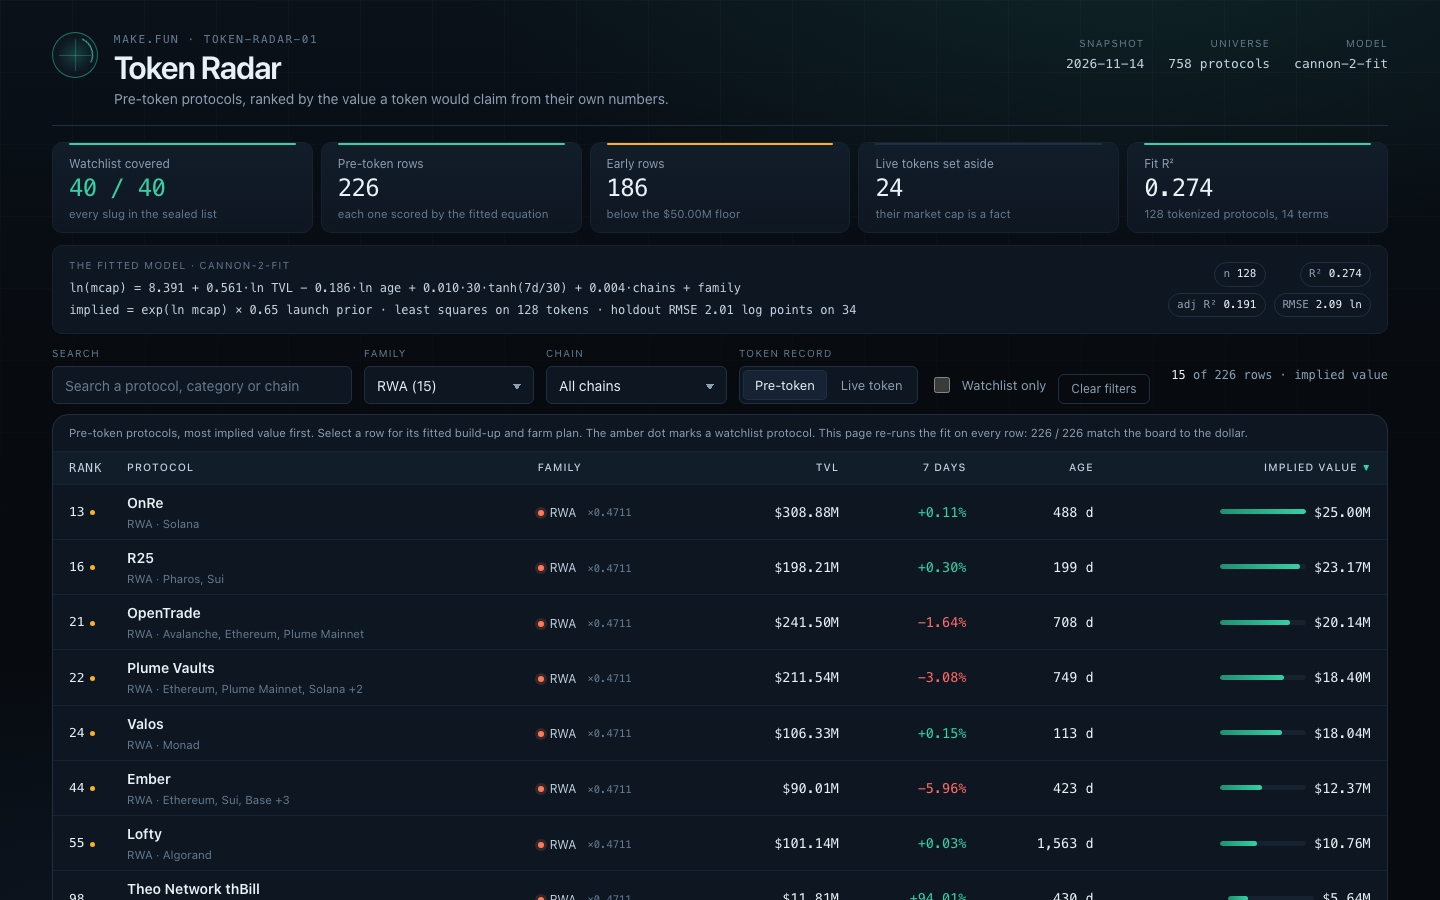
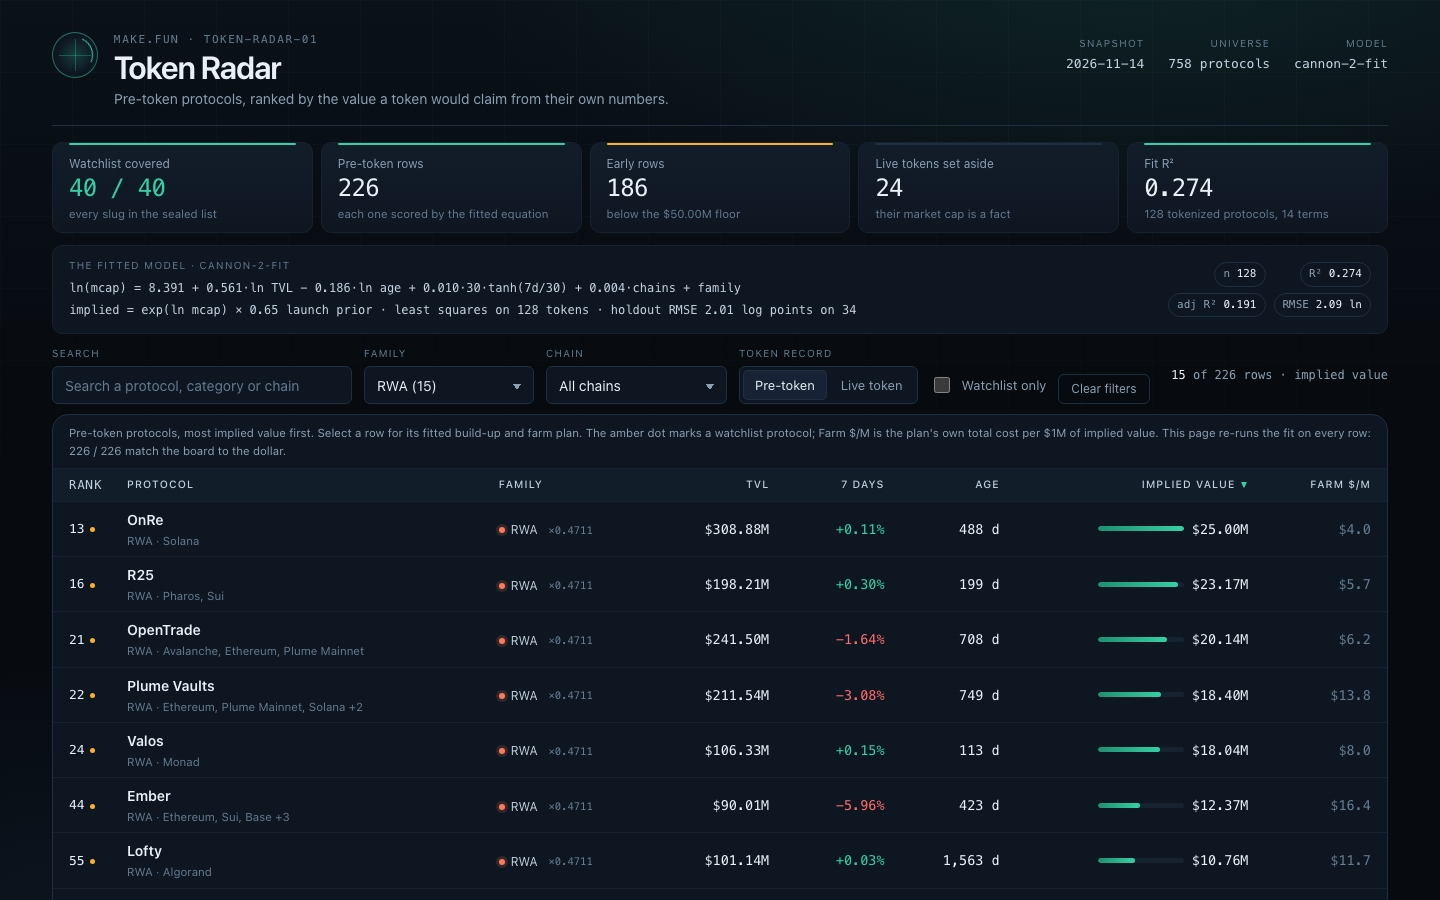
Quantify the farm plans: prerequisites, cash cost and cost per implied dollar
Every farm step now states its prerequisite, its cost and its time; each row carries the plan's
capital, gas, total, hold window and the cost per $1M of implied value, shown as a sortable
column and a summary line in the detail drawer.

diff --git a/lib/model.ts b/lib/model.ts
@@ -139,6 +139,18 @@ export interface ModelBreakdown {
   shrink: number;
 }
 
+/** What a farm plan costs to run, and what that cost is against the row's implied value. */
+export interface FarmCost {
+  capital_usd: number;
+  gas_usd: number;
+  total_usd: number;
+  hold_days: number;
+  /** Total cost divided by implied value, in basis points (1 bp = 0.01%). */
+  cost_bp_of_implied: number;
+  /** Dollars of total cost per $1,000,000 of implied value: the cross-row comparison. */
+  cost_per_million_implied_usd: number;
+}
+
 /** One row of board.json, and of the dashboard's data. */
 export interface BoardRow {
   rank: number;
@@ -158,6 +170,7 @@ export interface BoardRow {
   token_status: 'pre-token';
   implied_value_usd: number;
   model: ModelBreakdown;
+  farm: FarmCost;
   farm_steps: string[];
 }
 
@@ -641,26 +654,30 @@ export function buildBoard(snapshot: Snapshot, fit: Fit): BoardRow[] {
     }
   }
 
-  return scored.map((s, i) => ({
-    rank: i + 1,
-    slug: s.p.slug,
-    name: s.p.name,
-    category: s.p.category,
-    family: s.family,
-    family_label: familyLabel(s.family),
-    chains: s.p.chains,
-    chain_count: s.p.chains.length,
-    tvl_usd: s.p.tvl_usd,
-    change_7d: s.p.change_7d,
-    mcap_usd: s.p.mcap_usd,
-    listed_at: s.p.listed_at,
-    age_days: s.age,
-    watchlist: snapshot.watchlist.includes(s.p.slug),
-    token_status: 'pre-token',
-    implied_value_usd: s.implied,
-    model: s.breakdown,
-    farm_steps: farmPlan(s.p, s.age, s.family),
-  }));
+  return scored.map((s, i) => {
+    const farm = farmCostOf(s.p, s.age, s.implied);
+    return {
+      rank: i + 1,
+      slug: s.p.slug,
+      name: s.p.name,
+      category: s.p.category,
+      family: s.family,
+      family_label: familyLabel(s.family),
+      chains: s.p.chains,
+      chain_count: s.p.chains.length,
+      tvl_usd: s.p.tvl_usd,
+      change_7d: s.p.change_7d,
+      mcap_usd: s.p.mcap_usd,
+      listed_at: s.p.listed_at,
+      age_days: s.age,
+      watchlist: snapshot.watchlist.includes(s.p.slug),
+      token_status: 'pre-token',
+      implied_value_usd: s.implied,
+      model: s.breakdown,
+      farm,
+      farm_steps: farmPlan(s.p, s.age, s.family, farm),
+    };
+  });
 }
 
 /** Code-unit order, so the board's ordering never depends on a locale. */
@@ -731,21 +748,45 @@ function actionFor(p: SnapshotProtocol, family: string, capital: number, chain: 
  * protocol's own record (category, chains, TVL, age), so two protocols with the same record get the
  * same plan and no name is hand-written.
  */
-export function farmPlan(p: SnapshotProtocol, age: number | null, family: string): string[] {
-  const chain = p.chains.length > 0 ? p.chains[0]! : 'its main chain';
+export function farmCostOf(p: SnapshotProtocol, age: number | null, implied: number): FarmCost {
   const capital = capitalFor(p.tvl_usd);
   const hold = holdDaysFor(age);
+  const gas = gasFor(p.chains);
+  // One funding and one setup transaction, two weekly transactions (a qualifying move and a top-up)
+  // for the hold window, and one exit. Rounded to the cent so the plan's text and its total agree.
+  const events = 2 + 2 * Math.ceil(hold / 7) + 1;
+  const gasTotal = Math.round(gas * events * 100) / 100;
+  const total = Math.round((capital + gasTotal) * 100) / 100;
+  return {
+    capital_usd: capital,
+    gas_usd: gasTotal,
+    total_usd: total,
+    hold_days: hold,
+    cost_bp_of_implied: Math.round((total / implied) * 1e6) / 1e2,
+    cost_per_million_implied_usd: Math.round((total / (implied / 1e6)) * 100) / 100,
+  };
+}
+
+/**
+ * A protocol's farm plan: seven steps, each an action with its prerequisite, its cost and its time.
+ * Every input is the protocol's own record (category, chains, TVL, age) and the plan's own total, so
+ * two protocols with the same record get the same plan and no name is hand-written.
+ */
+export function farmPlan(p: SnapshotProtocol, age: number | null, family: string, farm: FarmCost): string[] {
+  const chain = p.chains.length > 0 ? p.chains[0]! : 'its main chain';
+  const capital = farm.capital_usd;
+  const hold = farm.hold_days;
   const gas = gasFor(p.chains);
   const action = actionFor(p, family, capital, chain);
   const tvl = `$${(p.tvl_usd / 1e6).toFixed(1)}M`;
   const steps = [
-    `Open a fresh wallet that will hold only this farm's funds and write its recovery phrase on paper; do not reuse a wallet that already holds balances. Cost: ${dollars(gas)} of gas to fund it the first time. Time: 10 minutes.`,
-    `${action} Cost: ${dollars(capital)} of capital plus about ${dollars(gas)} of gas. Time: 20 minutes to set up.`,
-    `Keep the position above a fifth of your deposit at all times and top it up after any market move, because a liquidated position earns nothing. Cost: no fee to check, ${dollars(gas)} to top up. Time: 5 minutes a week.`,
-    `Return once a week to make one qualifying move, a supply, a borrow, a swap or a governance vote, so the wallet is active in every seven-day window. Cost: about ${dollars(gas * 4)} a month in gas. Time: 10 minutes a week.`,
-    `Hold for at least ${hold} days so the activity covers more than one snapshot and a full points season. Cost: the ${dollars(capital)} stays in the position and is not spendable. Time: ${hold} days.`,
-    `Check that the protocol's TVL of ${tvl} is at least ten times your position, read the contract address from its own documentation, and claim rewards only on its official page, never through a link someone sends you. Cost: no fee, and never pay to claim. Time: 15 minutes.`,
-    `Withdraw into the same asset you deposited, then record the dates, the amounts and every transaction hash in a farm log so the position can be repeated or audited. Cost: about ${dollars(gas)} of gas to exit. Time: 20 minutes.`,
+    `Open a fresh wallet for this farm alone and write its recovery phrase on paper; never reuse a wallet that already holds balances. Prerequisite: none. Cost: ${dollars(gas)} of gas to fund it. Time: 10 minutes.`,
+    `${action} Prerequisite: the wallet holds ${dollars(capital + gas)} of USDC on ${chain}. Cost: ${dollars(capital)} of capital plus ${dollars(gas)} of gas. Time: 20 minutes.`,
+    `Check the position every week and top it up after any market move, because a liquidated position earns nothing. Prerequisite: the position is open. Cost: ${dollars(gas)} per top-up. Time: 5 minutes a week.`,
+    `Make one qualifying move each week, a supply, a borrow, a swap or a governance vote, so the wallet is active in every seven-day window. Prerequisite: the position is open. Cost: about ${dollars(gas)} a week in gas. Time: 10 minutes a week.`,
+    `Hold for at least ${hold} days so the activity covers more than one snapshot and a full points season. Prerequisite: the weekly cadence above. Cost: the ${dollars(capital)} stays locked for ${hold} days. Time: ${hold} days.`,
+    `Read the contract address from the protocol's own documentation and check that its ${tvl} TVL is at least ten times your position before adding funds. Prerequisite: the protocol's docs. Cost: no fee. Time: 15 minutes.`,
+    `Withdraw into the same asset you deposited, then record the dates, the amounts and every transaction hash in a farm log so the position can be repeated or audited. Prerequisite: the hold window has ended. Cost: ${dollars(gas)} of gas to exit. Time: 20 minutes.`,
   ];
   return steps.map((s) => (s.length > 600 ? `${s.slice(0, 596)}...` : s));
 }

diff --git a/dashboard/app.js b/dashboard/app.js
@@ -185,7 +185,8 @@
     tvl: function (r) { return r.tvl_usd; },
     change: function (r) { return r.change_7d === null || r.change_7d === undefined ? -Infinity : r.change_7d; },
     age: function (r) { return r.age_days === null || r.age_days === undefined ? -1 : r.age_days; },
-    mcap: function (r) { return r.mcap_usd || 0; }
+    mcap: function (r) { return r.mcap_usd || 0; },
+    cost: function (r) { return r.farm ? r.farm.cost_per_million_implied_usd : 0; }
   };
 
   function sortRows(list) {
@@ -331,7 +332,7 @@
   function boardTable() {
     var list = sortRows(DATA.rows.filter(matches));
     var listMax = list.reduce(function (m, r) { return Math.max(m, r.implied_value_usd); }, 1);
-    var caption = 'Pre-token protocols, most implied value first. Select a row for its fitted build-up and farm plan. The amber dot marks a watchlist protocol. This page re-runs the fit on every row: ' + auditOk + ' / ' + auditAll + ' match the board to the dollar.';
+    var caption = 'Pre-token protocols, most implied value first. Select a row for its fitted build-up and farm plan. The amber dot marks a watchlist protocol; Farm $/M is the plan\'s own total cost per $1M of implied value. This page re-runs the fit on every row: ' + auditOk + ' / ' + auditAll + ' match the board to the dollar.';
     if (list.length === 0) {
       return el('div', { class: 'panel' }, el('div', { class: 'empty' },
         el('h2', { text: 'Nothing matches this filter' }),
@@ -366,7 +367,8 @@
         el('td', { class: 'cell-num' }, el('div', { class: 'implied' },
           el('span', { class: 'bar', 'aria-hidden': 'true' }, el('i', { style: 'width:' + Math.max(2, Math.round((r.implied_value_usd / listMax) * 100)) + '%' })),
           el('span', { class: 'value', text: fmtUsd(r.implied_value_usd) })
-        ))
+        )),
+        el('td', { class: 'cell-num num dim', text: '$' + r.farm.cost_per_million_implied_usd.toFixed(1), title: 'Total farm cost per $1M of implied value: ' + fmtDollars(r.farm.total_usd) + ' over ' + r.farm.hold_days + ' days' })
       );
       tr.addEventListener('click', function () { openDetail(r.slug); });
       tr.addEventListener('keydown', function (e) {
@@ -385,7 +387,8 @@
             sortHeader('tvl', 'TVL', 'cell-num'),
             sortHeader('change', '7 days', 'cell-num'),
             sortHeader('age', 'Age', 'cell-num'),
-            sortHeader('implied', 'Implied value', 'cell-num')
+            sortHeader('implied', 'Implied value', 'cell-num'),
+            sortHeader('cost', 'Farm $/M', 'cell-num')
           )),
           tbody
         )
@@ -486,8 +489,8 @@
           el('b', { text: auditOk + ' / ' + auditAll }),
           ' rows reproduce the dollar board.json carries' + (ok ? ', including the top row.' : '; the rows that differ should not be trusted.')
         ),
-        el('p', { text: 'Launch prior: every training row is a token that trades, and a pre-token protocol\'s token does not exist yet. The fitted value is therefore multiplied by ' + FIT.shrink + ' — a stated 35% discount for launch risk and a thin first market. It multiplies every row alike, so it moves no rank. Growth\'s prior changes value, not the evidence: both numbers are named in the equation and neither is hidden.' }),
-        el('p', { text: 'What the fit found, and did not: ln(TVL) is the one strong term (t ' + fmtNum(FIT.ln_tvl / FIT.ln_tvl_se, 1) + '), and the fitted exponent is below 1, so a protocol with more TVL is worth more but at a falling multiple of it. The family effects are estimated from 2 to ' + Math.max.apply(null, FIT.families.map(function (f) { return f.n; })) + ' protocols each, so each is printed with its sample size and t statistic rather than presented as settled. Age and chains are fitted with the signs the data gave them; age\'s is negative and its t is ' + fmtNum(FIT.ln_age / FIT.ln_age_se, 1) + ', a weak effect stated as one.' })
+        el('p', { text: 'Launch prior: every training row is a token that trades, and a pre-token protocol\'s token does not exist yet. The fitted value is therefore multiplied by ' + FIT.shrink + ' — a stated 35% discount for launch risk and a thin first market. It multiplies every row alike, so it moves no rank; growth\'s prior changes value, not the evidence.' }),
+        el('p', { text: 'What the fit found, and did not: ln(TVL) is the one strong term (t ' + fmtNum(FIT.ln_tvl / FIT.ln_tvl_se, 1) + '), and its exponent is below 1, so a protocol with more TVL is worth more at a falling multiple of it. Family effects rest on 2 to ' + Math.max.apply(null, FIT.families.map(function (f) { return f.n; })) + ' protocols each, so each prints its sample size and t rather than posing as settled. Age and chains keep the signs the data gave; age\'s is negative and its t is ' + fmtNum(FIT.ln_age / FIT.ln_age_se, 1) + ', a weak effect stated as one.' })
       ),
       el('section', null,
         el('h2', { text: 'Families: fitted effect and observed market' }),
@@ -542,13 +545,15 @@
   }
 
   function stepParts(step) {
-    var costAt = step.indexOf(' Cost: ');
-    var action = costAt >= 0 ? step.slice(0, costAt) : step;
-    var rest = costAt >= 0 ? step.slice(costAt + 7) : '';
-    var timeAt = rest.indexOf('. Time: ');
-    var cost = timeAt >= 0 ? rest.slice(0, timeAt) : rest;
-    var time = timeAt >= 0 ? rest.slice(timeAt + 8) : '';
-    return { action: action, cost: cost, time: time.replace(/\.$/, '') };
+    var timeAt = step.lastIndexOf('Time: ');
+    var costAt = step.lastIndexOf('Cost: ', timeAt);
+    var preAt = step.lastIndexOf('Prerequisite: ', costAt);
+    var action = preAt >= 0 ? step.slice(0, preAt) : costAt >= 0 ? step.slice(0, costAt) : step;
+    var pre = preAt >= 0 && costAt > preAt ? step.slice(preAt + 14, costAt) : '';
+    var cost = costAt >= 0 && timeAt > costAt ? step.slice(costAt + 6, timeAt) : '';
+    var time = timeAt >= 0 ? step.slice(timeAt + 6) : '';
+    function clean(s) { return s.trim().replace(/\.$/, ''); }
+    return { action: clean(action), pre: clean(pre), cost: clean(cost), time: clean(time) };
   }
 
   function openDetail(slug) {
@@ -628,12 +633,19 @@
     ));
 
     inner.appendChild(el('section', { class: 'detail-section' },
-      el('h3', { text: 'Farm plan · cost and time on every step' }),
+      el('h3', { text: 'Farm plan · prerequisite, cost and time on every step' }),
+      el('p', { class: 'farm-cost' },
+        'Total ', el('b', { text: fmtDollars(row.farm.total_usd) }),
+        ' (' + fmtDollars(row.farm.capital_usd) + ' capital + ' + fmtDollars(row.farm.gas_usd) + ' gas over ' + row.farm.hold_days + ' days) · ',
+        el('b', { text: '$' + row.farm.cost_per_million_implied_usd.toFixed(2) }), ' per $1M of implied value · ',
+        el('b', { text: row.farm.cost_bp_of_implied.toFixed(2) }), ' bp'
+      ),
       el('ol', { class: 'steps' }, row.farm_steps.map(function (s) {
         var parts = stepParts(s);
         return el('li', null,
           el('p', { class: 'action', text: parts.action }),
           el('div', { class: 'meta' },
+            parts.pre ? el('span', { class: 'pre', text: 'Needs: ' + parts.pre }) : null,
             parts.cost ? el('span', { class: 'cost', text: 'Cost: ' + parts.cost }) : null,
             parts.time ? el('span', { text: 'Time: ' + parts.time }) : null
           )

diff --git a/dashboard/app.css b/dashboard/app.css
@@ -1,6 +1,4 @@
-/* Token Radar: one palette, one spacing scale, one type ramp.
-   The page is a dark instrument panel because the board is read like one: a signal column of values,
-   a quiet ground, and colour used only for the seven families and the two directions of change. */
+/* Token Radar: one palette, one spacing scale, one type ramp; colour only for families and direction. */
 
 :root {
   --ground: #070b10;
@@ -154,7 +152,6 @@ a { color: var(--signal); }
   margin-top: 5px; font-family: var(--font-num); font-size: 12px; line-height: 1.8; color: var(--ink-2);
   overflow-wrap: anywhere;
 }
-.formula b { color: var(--signal); font-weight: 500; }
 .factors {
   display: grid; grid-template-columns: repeat(2, max-content);
   gap: 6px var(--s2); justify-content: end; justify-items: end;
@@ -282,16 +279,6 @@ tbody tr:last-child td { border-bottom: 0; }
 .method h2 { font-size: 18px; }
 .method p { margin-top: var(--s2); color: var(--muted); font-size: 13px; }
 .method .formula { margin-top: var(--s3); font-size: 12.5px; }
-.multipliers { margin-top: var(--s4); display: grid; gap: 2px; }
-.mult-row {
-  display: grid; grid-template-columns: 20px minmax(0, 1fr) 64px; gap: var(--s2);
-  align-items: baseline; padding: 5px 0; border-bottom: 1px solid var(--line-soft);
-}
-.mult-row:last-child { border-bottom: 0; }
-.mult-row .key { color: var(--dim); font-family: var(--font-num); font-size: 11px; }
-.mult-row .what { color: var(--ink-2); font-size: 12.5px; }
-.mult-row .what span { display: block; color: var(--dim); font-size: 11.5px; }
-.mult-row .val { text-align: right; font-family: var(--font-num); font-size: 13px; color: var(--signal); }
 .method .audit {
   margin-top: var(--s4); padding: var(--s3);
   border: 1px solid rgba(53, 208, 165, 0.28); border-radius: var(--r-sm);
@@ -396,6 +383,9 @@ tbody tr:last-child td { border-bottom: 0; }
   border: 1px solid var(--line-soft); color: var(--muted); font-family: var(--font-num); font-size: 10.5px;
 }
 .steps .meta span.cost { color: var(--amber); border-color: rgba(255, 176, 32, 0.24); }
+.steps .meta span.pre { color: var(--lending); border-color: rgba(91, 157, 255, 0.24); }
+.farm-cost { margin-top: var(--s2); color: var(--muted); font-size: 12px; }
+.farm-cost b { color: var(--ink); font-family: var(--font-num); font-weight: 500; }
 .facts { margin-top: var(--s3); display: grid; grid-template-columns: repeat(2, minmax(0, 1fr)); gap: var(--s2) var(--s4); }
 .fact { display: flex; justify-content: space-between; gap: var(--s3); padding: 6px 0; border-bottom: 1px solid var(--line-soft); }
 .fact dt { color: var(--dim); font-size: 11.5px; }
